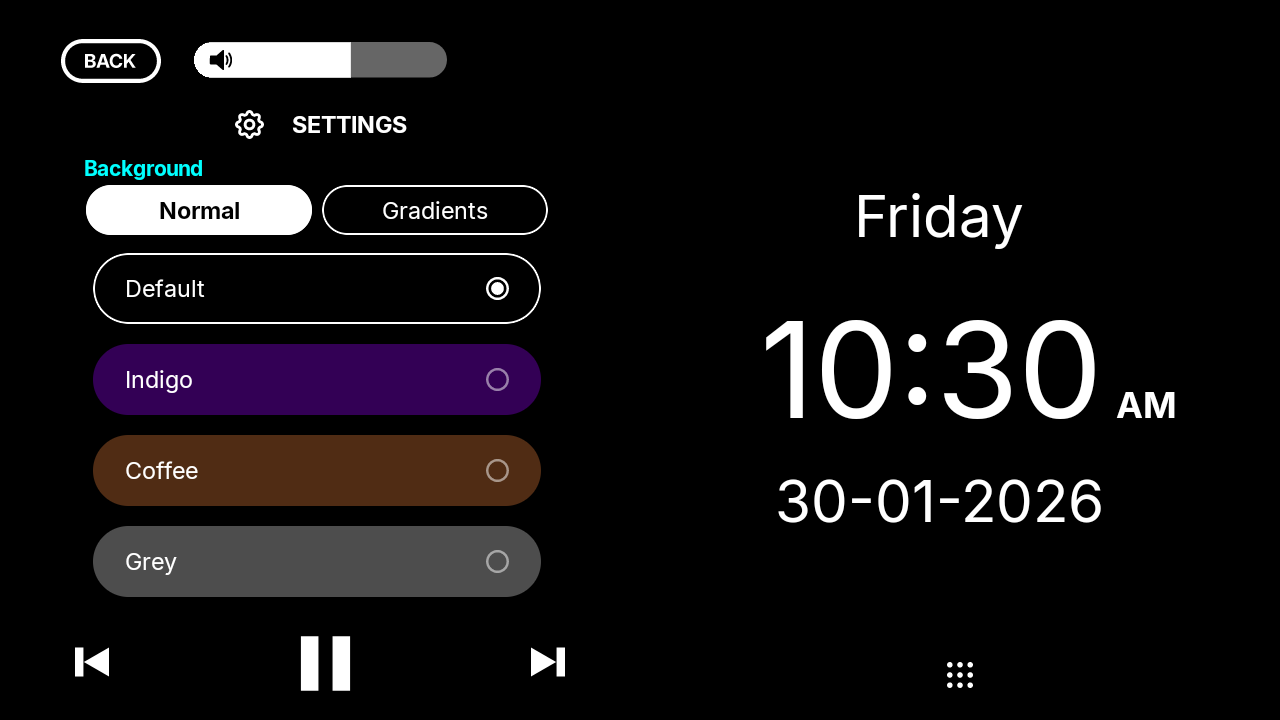
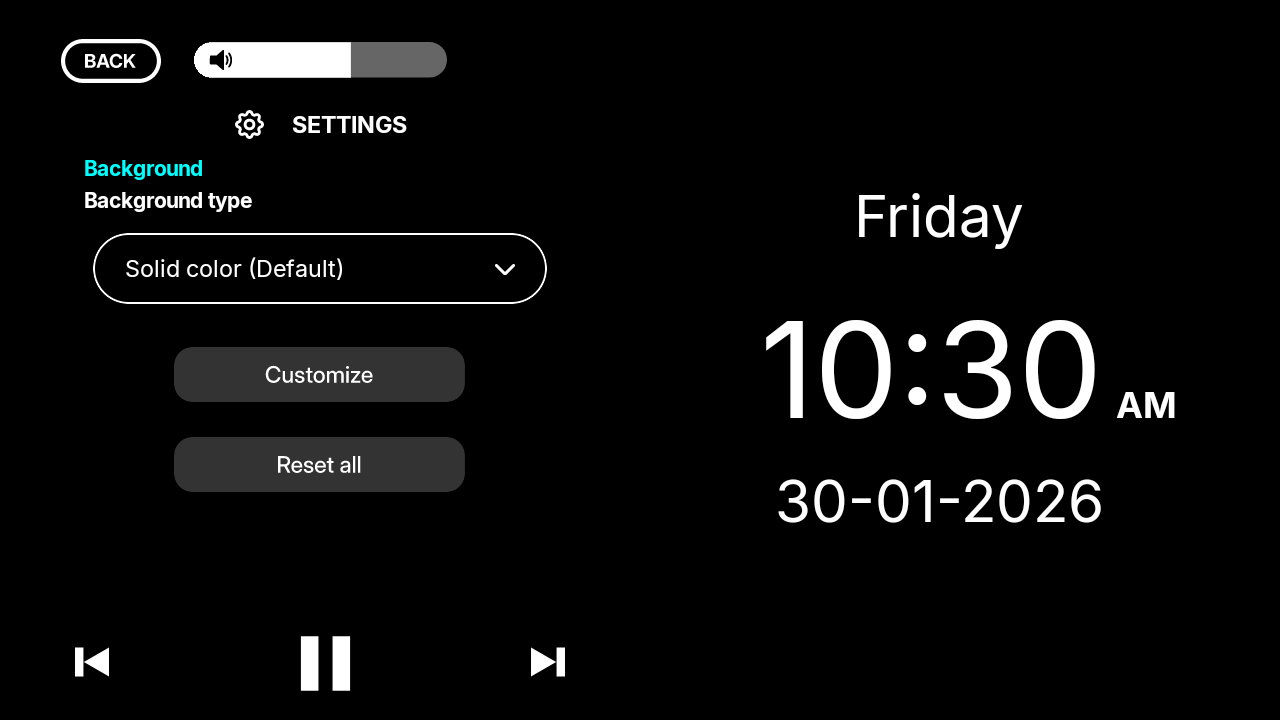
docs: Update appearance screenshot and enhance description for background customization

diff --git a/README.md b/README.md
@@ -33,7 +33,7 @@ The clock stays visible while you browse. Your library and settings are stored l
 
 | Playback queue | Appearance settings |
 | --- | --- |
-| ![Reorder the songs in the playback queue](docs/screenshots/queue.png) | ![Choose a background while keeping the clock visible](docs/screenshots/appearance.png) |
+| ![Reorder the songs in the playback queue](docs/screenshots/queue.png) | ![Select a background type, customize it, or reset it while keeping the clock visible](docs/screenshots/appearance.png) |
 
 *Captured from the latest debug build on the headunit_a10 Android emulator using the device’s music library for the main player and preview data for the other screens. Song titles and playlists are examples; music is not bundled.*
 
